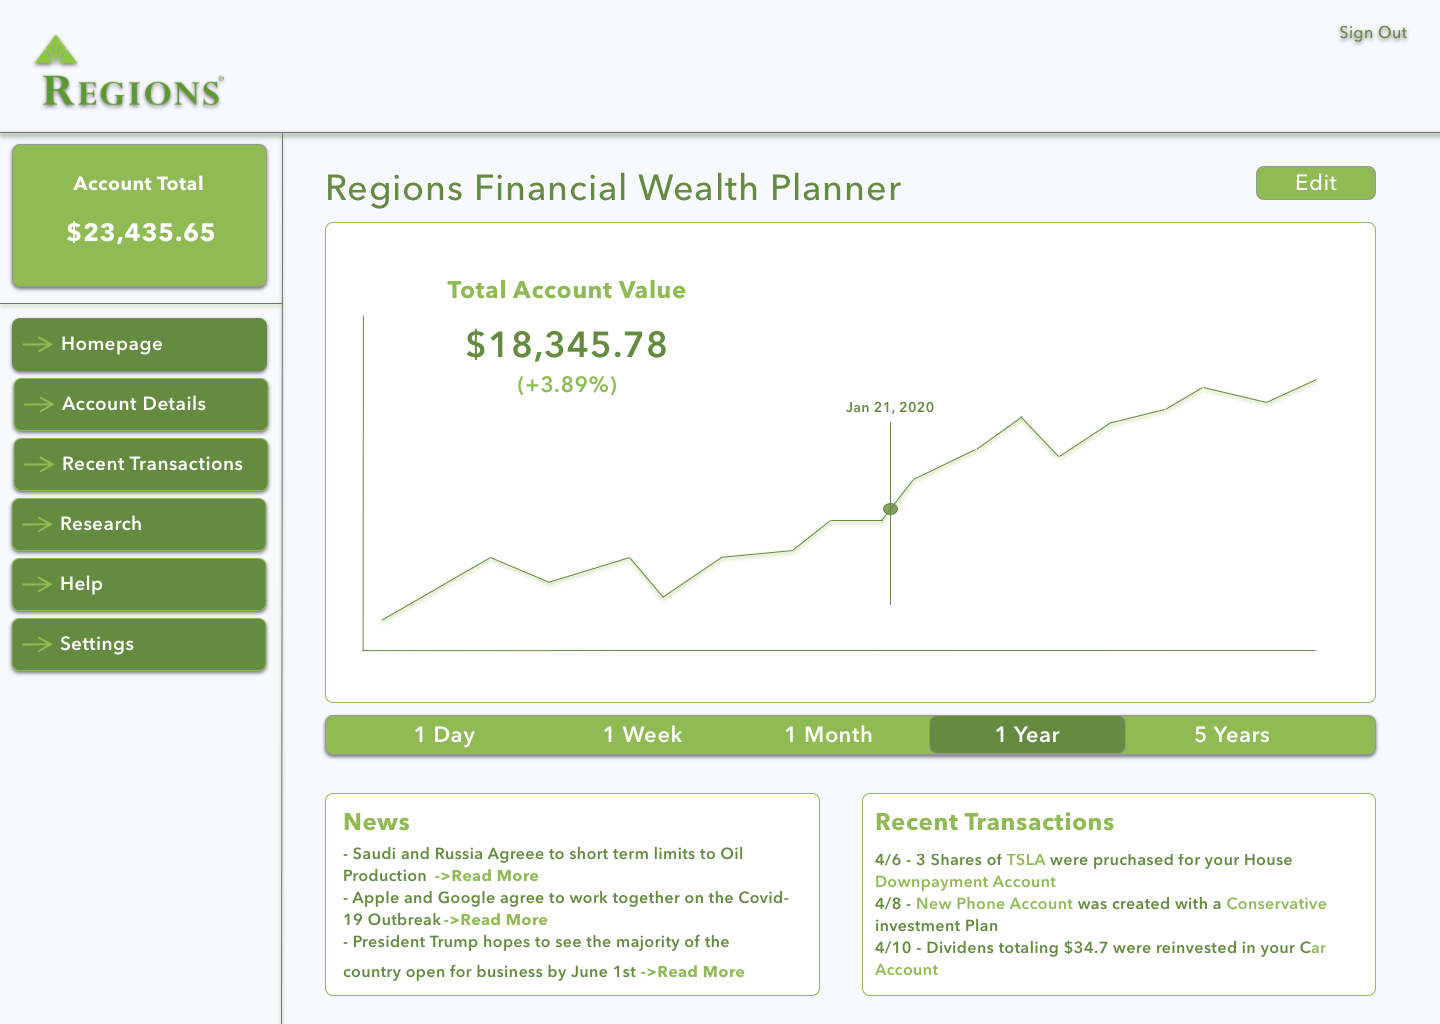
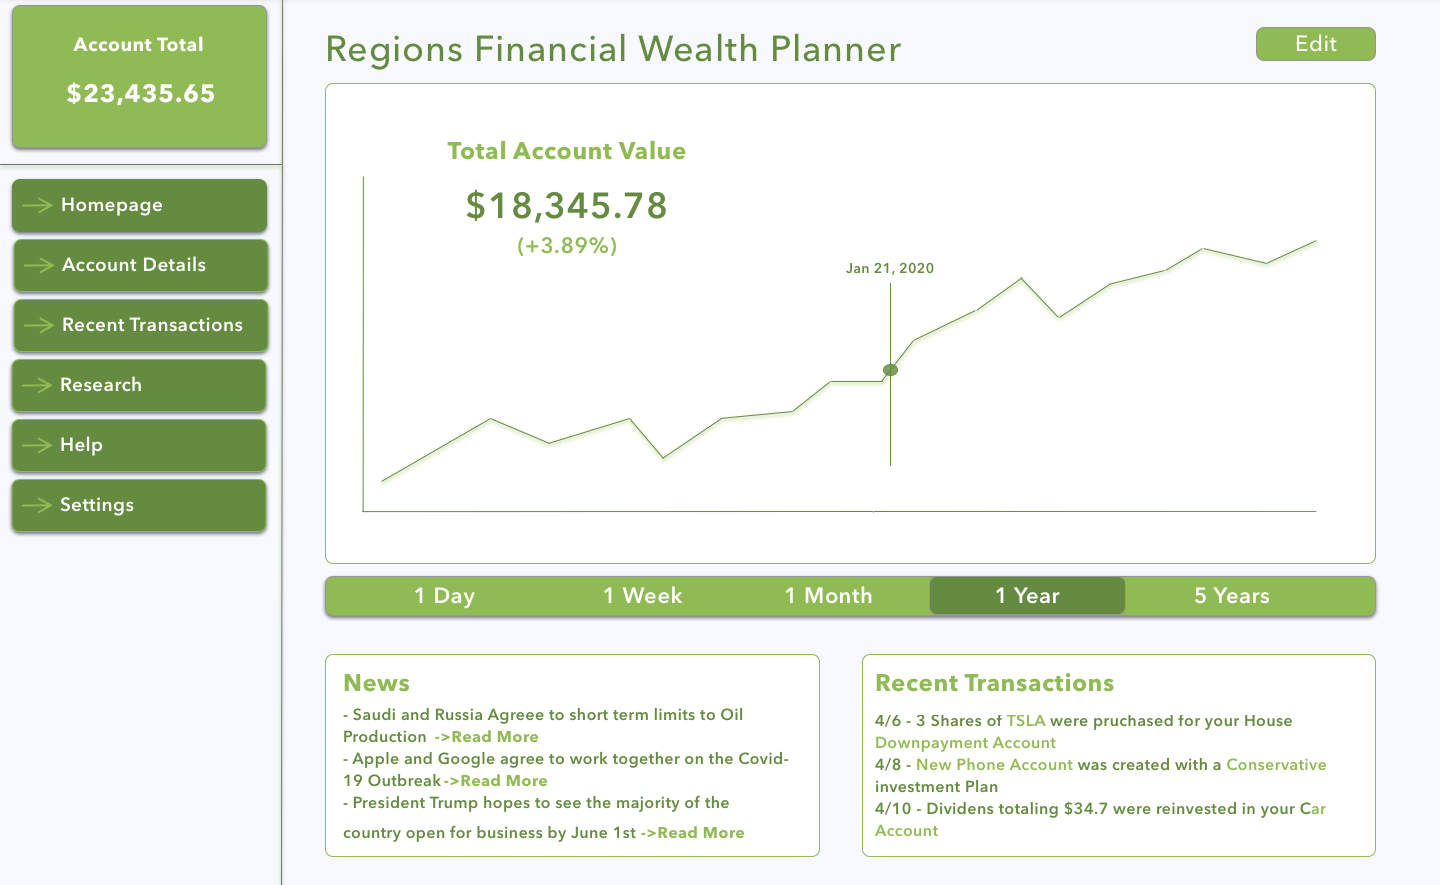
full width image

diff --git a/src/containers/homepage.js b/src/containers/homepage.js
@@ -7,8 +7,8 @@ export default function homepage() {
         <div className="homepage">
             <div className="lander">
             <hr />
-                <h3>Future Homescreen... work in progress</h3>
-                <img src={logo} alt="Logo" align="center"/>
+                {/*<h3>Future Homescreen... work in progress</h3>*/}
+                <img src={logo}  className='fullimg' alt="Logo" align="center"/>
             </div>
         </div>
     );

diff --git a/src/containers/homepage.css b/src/containers/homepage.css
@@ -15,3 +15,7 @@
 .homepage h1 {
     margin-top: 10%;
 }
+
+.fullimg {
+    width: 100%;
+}
